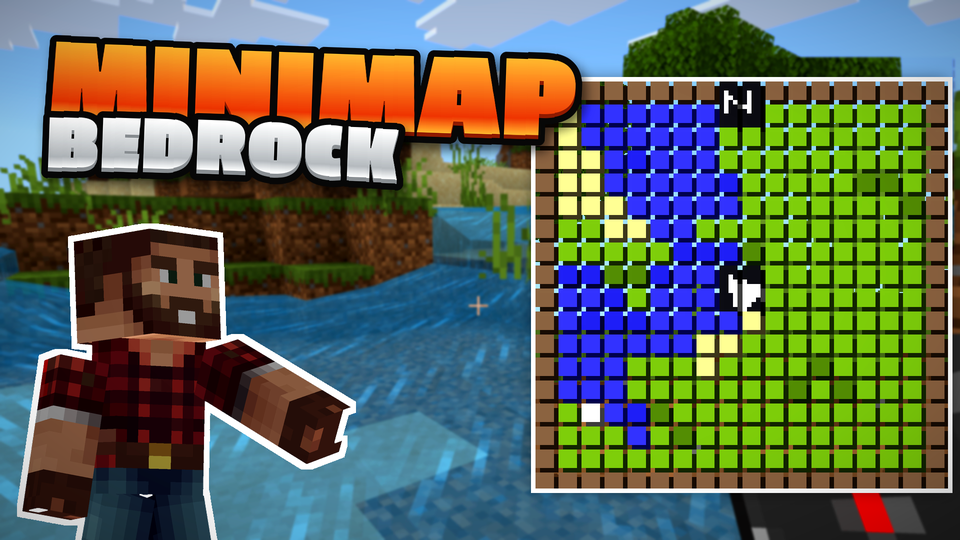
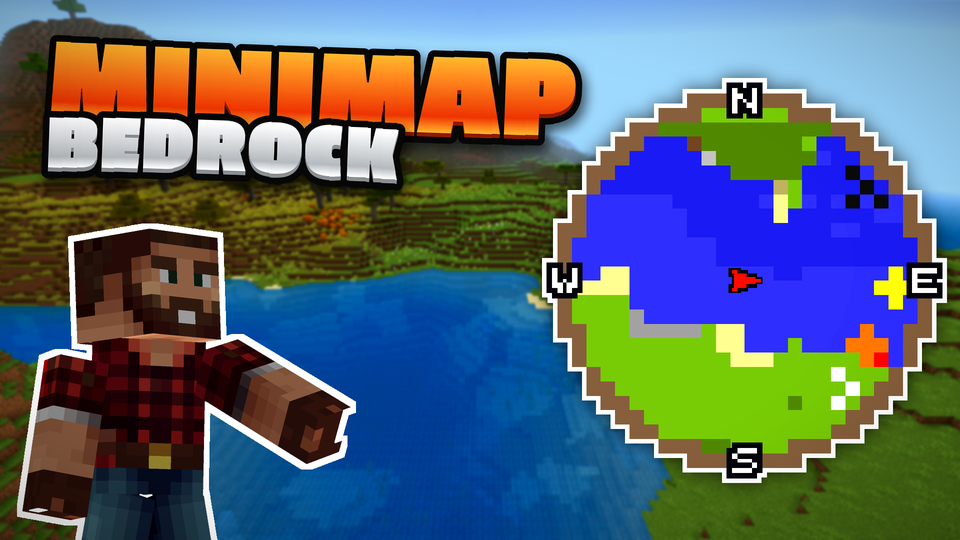
Snap the north-up map to its cells, and a new thumbnail
At 2 blocks a cell every block walked moved every cell onto a new column, so in
flight the sampling budget never caught up and the trailing rows drew unknown.
The thumbnail lifts the round map onto a round card.

diff --git a/development_behavior_packs/minimap/scripts/render.js b/development_behavior_packs/minimap/scripts/render.js
@@ -23,10 +23,14 @@ export function draw(player, settings, tick) {
 	const dimension = player.dimension;
 	const layer = layerFor(player);
 	const origin = player.location;
-	const px = Math.floor(origin.x);
-	const pz = Math.floor(origin.z);
 	const yaw = player.getRotation().y;
 	const view = settings.rotate ? facing(yaw) : { rx: 1, rz: 0, fx: 0, fz: -1 };
+	// With north up the map is snapped to its cells, as Xaero's is: a cell keeps its column until the player
+	// has crossed a whole cell. Unsnapped, every block walked at 2 blocks a cell moved every cell onto a new
+	// column, which is half the map sampled again per block, and in flight the sampling budget never caught up.
+	const snap = settings.rotate ? 1 : zoom;
+	const px = Math.floor(Math.floor(origin.x) / snap) * snap;
+	const pz = Math.floor(Math.floor(origin.z) / snap) * snap;
 
 	// the grid, read out of the terrain cache, with the columns this pass can afford sampled on the way
 	const colour = new Array(size * size);

diff --git a/tools/make_thumbnail.py b/tools/make_thumbnail.py
@@ -44,10 +44,11 @@ TITLE = [
     dict(text="BEDROCK", style="white", cap=100, arc=-10),
 ]
 
-# Where the minimap sits in assets/background.png. It is lifted out and blown up,
-# because at its real size it is unreadable in a thumbnail.
-MINIMAP_BOX = (1489, 107, 1848, 461)
-PLATE_CROP = (60, 0, 1860, 1012)      # 16:9, above the hotbar and the taskbar
+# Where the minimap sits in assets/background.png, its compass letters included. It is
+# lifted out and blown up, because at its real size it is unreadable in a thumbnail.
+# The map is round, so only the map and its letters are lifted, not the sky round them.
+MINIMAP_BOX = (1693, 1, 1920, 228)
+PLATE_CROP = (0, 0, 1920, 1080)       # 16:9, above the taskbar
 
 STROKE, DEPTH, EXTRUDE_DEG, TRACK = 13, 8, 90, 5
 
@@ -219,6 +220,36 @@ def _card(img, rim=9, shadow=30):
     return out
 
 
+def _lift(img):
+    """The map as an RGBA image: everything in the box that is not sky. That keeps the disc, whose stepped
+    pixel edge a true circle would cut into, and the compass letters, which stand half out of the frame.
+    Nothing the map draws is sky coloured: water is a deeper blue and ice a greyer one."""
+    arr = np.asarray(img.convert("RGB")).astype(np.int16)
+    r, g, b = arr[..., 0], arr[..., 1], arr[..., 2]
+    sky = (b >= 225) & (r >= 110) & (r < 225) & (g >= 170)
+    alpha = np.where(sky, 0, 255).astype(np.uint8)
+    out = img.convert("RGBA")
+    out.putalpha(Image.fromarray(alpha, "L"))
+    return out
+
+
+def _shaped_card(img, rim=9, shadow=30):
+    """_card for something that is not a rectangle: the white rim and the shadow follow its alpha."""
+    pad = rim + shadow + 20
+    alpha = Image.new("L", (img.width + pad * 2, img.height + pad * 2), 0)
+    alpha.paste(img.getchannel("A"), (pad, pad))
+    ring = alpha.filter(ImageFilter.MaxFilter(rim * 2 + 1))
+    out = Image.new("RGBA", alpha.size, (0, 0, 0, 0))
+    sh = Image.new("RGBA", alpha.size, (0, 0, 0, 0))
+    sh.putalpha(ring.point(lambda v: v * 155 // 255).filter(ImageFilter.GaussianBlur(shadow * 0.55)))
+    out = Image.alpha_composite(out, sh)
+    white = Image.new("RGBA", alpha.size, (255, 255, 255, 0))
+    white.putalpha(ring)
+    out = Image.alpha_composite(out, white)
+    out.alpha_composite(img, (pad, pad))
+    return out
+
+
 def _patch_out(plate, box):
     """Paint the real minimap out of the plate before it becomes the backdrop.
 
@@ -242,11 +273,12 @@ def build():
     canvas = _grade(backdrop, sat=1.34, contrast=1.08, bright=0.97).convert("RGBA")
 
     # the minimap, lifted straight out of the capture and kept pixel sharp
-    mm = plate.crop(MINIMAP_BOX)
-    SCALE = 2.30
+    mm = _lift(plate.crop(MINIMAP_BOX))
+    SCALE = 3.6
     mm = mm.resize((int(mm.width * SCALE), int(mm.height * SCALE)), Image.NEAREST)
-    mm = _grade(mm, sat=1.28, contrast=1.10, bright=1.04)
-    canvas.alpha_composite(_card(mm), (1012, 104))
+    shaded = _grade(mm.convert("RGB"), sat=1.28, contrast=1.10, bright=1.04).convert("RGBA")
+    shaded.putalpha(mm.getchannel("A"))
+    canvas.alpha_composite(_shaped_card(shaded), (1020, 92))
 
     # the player, big in the corner and cropped by the frame the way Crossy Road
     # places him, turned toward the map with the near arm raised at it

diff --git a/tests/test_static.py b/tests/test_static.py
@@ -268,7 +268,7 @@ def test_every_texture_the_hud_can_name_is_in_the_pack():
         assert os.path.isfile(os.path.join(folder, f"{name}.png")), f"textures/ui/minimap/{name}.png is missing"
 
 
-def rendered(settings, properties=None):
+def rendered(settings, properties=None, at=(0.5, 64, 0.5)):
     """The titles render.js draws for a player at 0.5, 64, 0.5 facing west, with these settings over
     a 16 cell map at a block a cell, and these dynamic properties on the player."""
     node = shutil.which("node")
@@ -298,7 +298,7 @@ def rendered(settings, properties=None):
                          "const dimension = { id: 'minecraft:overworld',"
                          " getBiome: () => ({ id: 'minecraft:dark_forest' }),"
                          " getLightLevel: () => 7, getSkyLightLevel: () => 15 };\n"
-                         "const player = { id: 1, location: { x: 0.5, y: 64, z: 0.5 }, dimension,"
+                         f"const player = {{ id: 1, location: {{ x: {at[0]}, y: {at[1]}, z: {at[2]} }}, dimension,"
                          " getRotation: () => ({ x: 0, y: 90 }), getDynamicProperty: (key) => properties[key] };\n"
                          f"process.stdout.write(JSON.stringify(draw(player, {json.dumps(everything)}, 0)));\n")
         with open(os.path.join(folder, "package.json"), "w") as handle:
@@ -402,6 +402,14 @@ def test_the_enlarged_map_is_the_biggest_the_zoom_allows():
                                           text=True, check=True).stdout)
     # 40 cells at 1 and 2 blocks a cell stay inside the 48 blocks the game answers for, 24 at 4, 12 at 8
     assert sizes == [40, 40, 24, 12, 16]
+
+
+def test_with_north_up_the_map_keeps_its_cells_until_the_player_crosses_one():
+    # a step of one block at two blocks a cell: unsnapped, every cell moved onto a new column, and in flight
+    # the map could not sample fast enough to keep up
+    rows = lambda titles: titles[1:]
+    assert rows(rendered({"zoom": 2}, at=(0.5, 64, 0.5))) == rows(rendered({"zoom": 2}, at=(1.5, 64, 0.5)))
+    assert rows(rendered({"zoom": 2}, at=(0.5, 64, 0.5))) != rows(rendered({"zoom": 2}, at=(2.5, 64, 0.5)))
 
 
 # --- the project art -------------------------------------------------------
